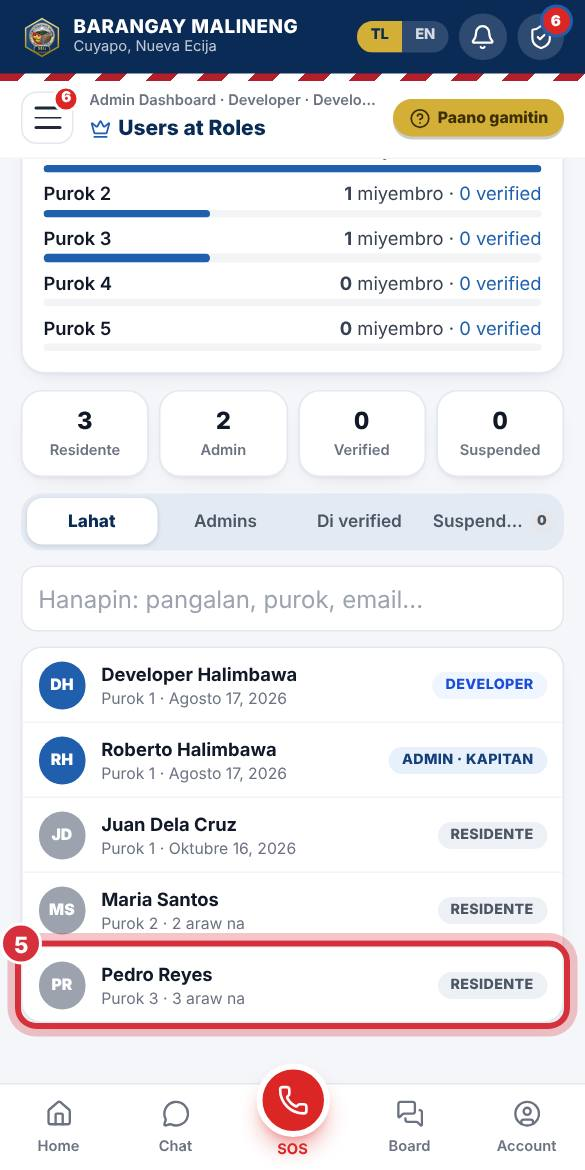
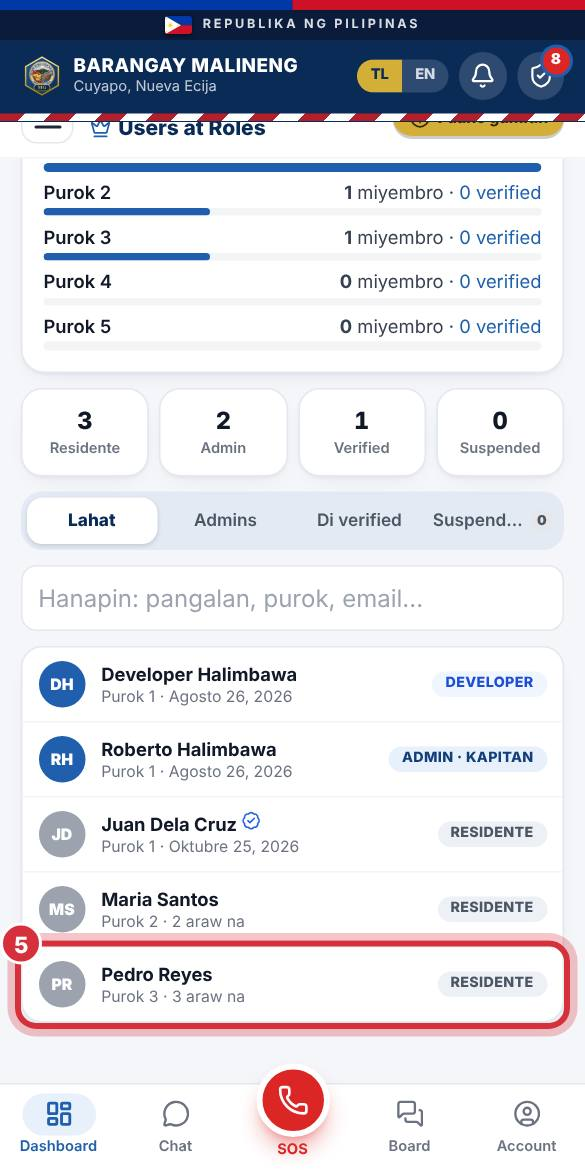
Admin: assign, change or remove a barangay official's position (Developer only)
New 'Posisyon sa Barangay' card in the user modal with a position picker,
warning when another Kapitan already exists, remove-position action and
activity log entries. Guide admin-users updated with a new step.

Claude-Session: https://claude.ai/code/session_013F6BoHnbdQ1Ng6Eh2JznKS

diff --git a/malineng-web/src/components/admin/AdminUsers.tsx b/malineng-web/src/components/admin/AdminUsers.tsx
@@ -6,7 +6,7 @@ import { verifiedSetAdd, verifiedSetRef, verifiedSetRemove } from "@/lib/verifie
 import { useEffect, useMemo, useState } from "react";
 import { collection, deleteDoc, doc, getDoc, getDocs, query, serverTimestamp, updateDoc, where, writeBatch, setDoc } from "firebase/firestore";
 import { sendPasswordResetEmail } from "firebase/auth";
-import { Ban, Camera, Copy, ExternalLink, KeyRound, ShieldCheck, Trash2, Undo2, UserPlus } from "lucide-react";
+import { Ban, Camera, Copy, Landmark, ExternalLink, KeyRound, ShieldCheck, Trash2, Undo2, UserPlus } from "lucide-react";
 import { VERIFY_LINK, verifyInviteText } from "@/lib/nextPath";
 import { ChatWithButton } from "@/components/ChatWithButton";
 import { firebaseConfig } from "@/config/firebase.config";
@@ -20,7 +20,7 @@ import { logActivity, roleLabel } from "@/lib/activity";
 import { ADMIN_POSITIONS } from "@/lib/constants";
 import { friendlyError, timeAgo } from "@/lib/format";
 import type { UserProfile } from "@/lib/types";
-import { Badge, Button, Card, EmptyState, FilterTabs, Modal, Select, Spinner, SelectOther } from "@/components/ui";
+import { Badge, Button, Card, EmptyState, FilterTabs, Modal, Select, Spinner } from "@/components/ui";
 import { VerifiedBadge } from "@/components/VerifiedBadge";
 import { AddAccountForm } from "./AddAccountForm";
 import { PurokCountsCard } from "./PurokCountsCard";
@@ -35,6 +35,18 @@ const FILTERS: { key: Filter; label: string }[] = [
   { key: "admins", label: "Admins" },
   { key: "unverified", label: "Di verified" },
   { key: "suspended", label: "Suspended" },
+];
+
+/** Short explanations shown in the position picker. */
+const POSITION_INFO: { name: string; hint: string }[] = [
+  { name: "Kapitan", hint: "Punong Barangay. Isa lang ang Kapitan." },
+  { name: "Secretary", hint: "Katuwang ng Kapitan sa mga dokumento at ulat." },
+  { name: "Treasurer", hint: "Pondo at gastos." },
+  { name: "Kagawad", hint: "Miyembro ng Sangguniang Barangay." },
+  { name: "SK Chairman", hint: "Liga at mga programa ng kabataan." },
+  { name: "BHW Head", hint: "Botika at kalusugan, nangunguna sa BHW." },
+  { name: "BHW", hint: "Botika at kalusugan lang." },
+  { name: "Iba pa", hint: "Isulat ang posisyon, halimbawa Tanod." },
 ];
 
 export type UserRow = UserProfile & { id: string };
@@ -89,15 +101,52 @@ export function UserDetail({ u, verified, onClose }: { u: UserRow; verified: boo
     getDoc(doc(db, "verifications", u.id)).then((s) => setIdPhoto(s.exists() ? ((s.data().selfie as string) ?? "") : null)).catch(() => setIdPhoto(null));
   }, [isSuperAdmin, u.id]);
   const [role, setRole] = useState<"resident" | "admin">(u.role === "admin" ? "admin" : "resident");
-  const [position, setPosition] = useState<string>(u.position || "Secretary");
+  const [position, setPosition] = useState<string>(u.position || "");
   const [busy, setBusy] = useState(false);
+  // Position picker (Developer only): opens inline, remembers the choice until saved.
+  const [picking, setPicking] = useState(false);
+  const [pick, setPick] = useState<string>(u.role === "admin" && u.position ? u.position : "");
+  const [customPos, setCustomPos] = useState("");
+  const [otherKapitan, setOtherKapitan] = useState<string | null>(null);
+
+  const isListed = (ADMIN_POSITIONS as readonly string[]).includes(u.position ?? "");
+  const chosen = pick === "Iba pa" ? customPos.trim() : pick;
+
+  // Warn (not block) when another account already holds the Kapitan position.
+  useEffect(() => {
+    setOtherKapitan(null);
+    if (!picking || pick !== "Kapitan") return;
+    let live = true;
+    getDocs(query(usersCollection, where("position", "==", "Kapitan")))
+      .then((snap) => {
+        const other = snap.docs.find((d) => d.id !== u.id && d.data().role === "admin");
+        if (live) setOtherKapitan(other ? ((other.data().fullName as string) ?? "isa pang account") : null);
+      })
+      .catch(() => undefined);
+    return () => { live = false; };
+  }, [picking, pick, u.id]);
+
+  /** Sets (or clears, with "") the barangay position. A position makes the user an Admin; clearing returns them to Residente. */
+  const savePosition = async (next: string) => {
+    setBusy(true);
+    try {
+      await updateDoc(doc(db, "users", u.id), next ? { role: "admin", position: next } : { role: "resident", position: "", photoURL: "" });
+      logActivity("Roles", next ? `Itinalaga si ${u.fullName} bilang ${next} (dati: ${u.position || (u.role === "admin" ? "Admin" : "Residente")})` : `Inalis ang posisyon ni ${u.fullName} (${u.position || "Admin"}), naging Residente`, u.id);
+      toast(next ? `Na-update na: si ${u.fullName.split(" ")[0]} ay ${next} na.` : "Inalis ang posisyon.");
+      onClose();
+    } catch (err) {
+      toast(friendlyError(err), "error");
+    } finally {
+      setBusy(false);
+    }
+  };
 
   const saveRole = async () => {
     setBusy(true);
     try {
       const batch = writeBatch(db);
       // Profile photos are admin-only, so a demoted user's photo is cleared too.
-      batch.update(doc(db, "users", u.id), role === "admin" ? { role, position } : { role, position: "", photoURL: "" });
+      batch.update(doc(db, "users", u.id), role === "admin" ? { role, position: position || "Secretary" } : { role, position: "", photoURL: "" });
       await batch.commit();
       logActivity("Roles", `Ginawang ${roleLabel(role, role === "admin" ? position : "")} si ${u.fullName}`, u.id);
       toast("Na-save ang role.");
@@ -259,6 +308,53 @@ export function UserDetail({ u, verified, onClose }: { u: UserRow; verified: boo
         <p className="rounded-xl bg-gray-50 p-3 text-sm text-gray-600">Hindi pwedeng baguhin dito ang role ng Super Admin, para hindi ma-lock out ang website.</p>
       ) : (
         <>
+          {isSuperAdmin && (
+            <Card className="space-y-3 border-2 border-gold bg-white">
+              <div className="flex items-center justify-between">
+                <p className="flex items-center gap-1 font-bold"><Landmark className="h-4 w-4" aria-hidden /> Posisyon sa Barangay</p>
+              </div>
+              {!picking ? (
+                <>
+                  <div className="flex items-center justify-between gap-2 rounded-xl bg-gray-50 p-3">
+                    <div className="min-w-0">
+                      <p className="text-[0.7rem] font-bold uppercase tracking-wide text-gray-500">Ngayon</p>
+                      <p className="truncate text-base font-extrabold text-brand">{u.role === "admin" ? (u.position || "Admin") : "Residente"}</p>
+                      {u.role !== "admin" && <p className="text-xs text-gray-500">Walang posisyon</p>}
+                    </div>
+                    <Button variant={u.role === "admin" ? "outline" : "gold"} onClick={() => { setPick(u.role === "admin" && isListed ? (u.position as string) : u.role === "admin" && u.position ? "Iba pa" : ""); setCustomPos(u.role === "admin" && !isListed ? (u.position ?? "") : ""); setPicking(true); }}>
+                      {u.role === "admin" ? "Palitan" : "Magtalaga"}
+                    </Button>
+                  </div>
+                  <p className="text-xs text-gray-600">Kapag naglagay ng posisyon, nagiging <b>Admin</b> siya. Kapag inalis, bumabalik siya sa Residente.</p>
+                  {u.role === "admin" && (
+                    <Button variant="danger" full loading={busy} onClick={() => confirm(`Alisin ang posisyon ni ${u.fullName}? Magiging Residente na siya.`) && savePosition("")}>Alisin ang posisyon</Button>
+                  )}
+                </>
+              ) : (
+                <>
+                  <div className="space-y-2" role="radiogroup" aria-label="Posisyon">
+                    {POSITION_INFO.map((p) => (
+                      <button key={p.name} role="radio" aria-checked={pick === p.name} onClick={() => setPick(p.name)}
+                        className={`flex min-h-12 w-full items-center gap-3 rounded-xl border-2 px-3 py-2 text-left ${pick === p.name ? "border-gold bg-gold-light" : "border-gray-200 bg-white"}`}>
+                        <span className={`h-5 w-5 flex-none rounded-full border-2 ${pick === p.name ? "border-brand bg-brand ring-2 ring-inset ring-white" : "border-gray-300"}`} aria-hidden />
+                        <span><b className="block text-sm">{p.name}</b><span className="block text-xs text-gray-600">{p.hint}</span></span>
+                      </button>
+                    ))}
+                  </div>
+                  {pick === "Iba pa" && (
+                    <input value={customPos} onChange={(e) => setCustomPos(e.target.value)} maxLength={40} placeholder="Isulat ang posisyon (hal. Tanod)" aria-label="Ibang posisyon" className="w-full rounded-xl border border-gray-200 bg-white px-3 py-2.5" />
+                  )}
+                  {otherKapitan && (
+                    <p className="rounded-xl bg-amber-50 p-3 text-sm font-semibold text-amber-900" role="alert">⚠ May Kapitan na: {otherKapitan}. Isa lang dapat ang Kapitan. Pwede mo pa ring ituloy kung papalitan siya.</p>
+                  )}
+                  <div className="grid grid-cols-[1fr_1.6fr] gap-2">
+                    <Button variant="outline" onClick={() => setPicking(false)}>Kanselahin</Button>
+                    <Button loading={busy} disabled={!chosen} onClick={() => savePosition(chosen)}>I-save{chosen ? `: ${chosen}` : ""}</Button>
+                  </div>
+                </>
+              )}
+            </Card>
+          )}
           <Card className="space-y-3 bg-gray-50 shadow-none">
             <p className="flex items-center gap-1 font-bold"><ShieldCheck className="h-4 w-4" /> Role</p>
             <div className="grid grid-cols-2 gap-2">
@@ -268,9 +364,6 @@ export function UserDetail({ u, verified, onClose }: { u: UserRow; verified: boo
                 </button>
               ))}
             </div>
-            {role === "admin" && (
-              <SelectOther label="Posisyon" options={ADMIN_POSITIONS} value={position} onChange={setPosition} maxLength={40} hint="“Kapitan” lang ang makaka-approve ng ambulansya." />
-            )}
             <Button full loading={busy} onClick={saveRole}>I-save ang role</Button>
           </Card>
           <div className="grid grid-cols-2 gap-2">
